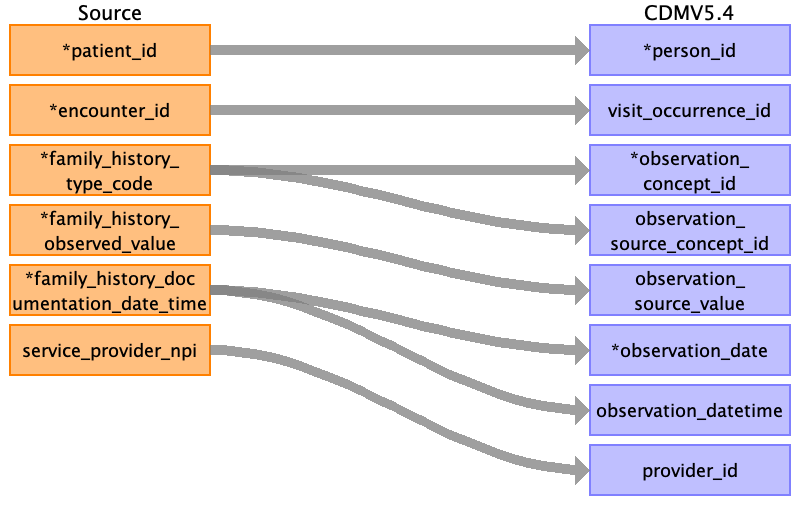
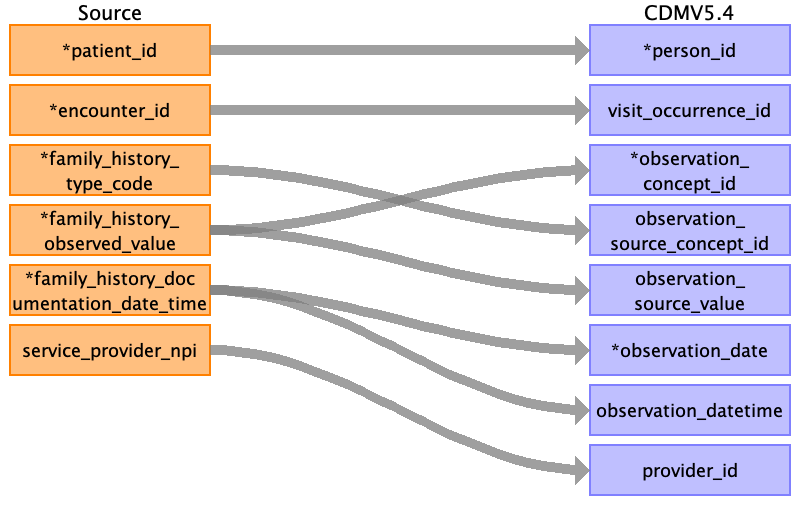
Corrections to mapping for observation_concept_id and added ACEP mappings for Result Observation table

Changed region(s): [[0.3125, 0.3267, 0.7188, 0.4752]]

diff --git a/mappings/ACEP_mappings/measurement.md b/mappings/ACEP_mappings/measurement.md
@@ -1,0 +1,32 @@
+## Table name: measurement
+
+### Reading from result_observation.csv
+
+![](md_files/image7.png)
+
+| Destination Field | Source field | Logic | Comment field |
+| --- | --- | --- | --- |
+| measurement_id |  |  | This will be generated for each unique result of observatio/measurement if not given in the source table. |
+| person_id | patient_id |  | The patient_id is the primary key linking all tables. This can be mapped back to the the person_source_value/person_id of the person table depending on the logic used<br> |
+| measurement_concept_id | observation_description |  | The observation_description is the text description for Observation Code. This can used to derive the measurement_concept_id. Alternatively, if measurement_source_concept_id is a part of the OMOP vocabulary that can be used for mapping.<br> |
+| measurement_date | result_date_time |  | result_date_time is the date and time of the result/observation. The ETL convention specifies "If there are multiple dates in the source data associated with a record such as order_date, draw_date, and result_date, choose the one that is closest to the date the sample was drawn from the patient." Hence even though the date represents the result date it is the closest match for the measurement_date field. Date can be extracted from date time value. The standard format is not specified in the dictionary this has to be checked when we get the data.<br> |
+| measurement_datetime | result_date_time |  | result_date_time can be stored directly in measurement_datetime. The standard format is not specified in the dictionary this has to be checked when we get the data.<br> |
+| measurement_time | result_date_time |  | measurement_time can be extracted from result_date_time. The standard format is not specified in the dictionary this has to be checked when we get the data<br> |
+| measurement_type_concept_id |  |  | This has to be mapped to the respective Type Concept. Needs more investigation. |
+| operator_concept_id |  |  |  |
+| value_as_number | result_value |  | result_value is the documented value/result. It can be stored in value_as_number as the data type here seems to be float/integer. In case not a numeric value, this might need investigation.<br> |
+| value_as_concept_id | result_flag_description |  | result_flag_description is the text description of the Result Flag. As it is a description field it can be used to derive the value_as_concept_id.<br> |
+| unit_concept_id | result_unit |  | The result unit can be used to map the unit_concept_id.<br> |
+| range_low | normal_range_low |  | Lower limit of normal result range, can be directly stored as range_low. It should have same unit as value_as_number.<br> |
+| range_high | normal_range_high |  | Upper limit of normal result range, can be directly stored as range_high. It should have same unit as value_as_number.<br> |
+| provider_id | service_provider_npi |  | The service_provider_npi is the unique NPI for the clinician providing the encounter services. This will map to npi in provider table, the provider_id is the primary key for it which can be added to the measurement table.<br> |
+| visit_occurrence_id | encounter_id |  | encounter_id is an identifier unique to the encounter. It is the primary key for the visit occurrence table. This can be mapped back to the the visit_source_value/visit_occurrence_id of the person table depending on the logic used.<br> |
+| visit_detail_id |  |  |  |
+| measurement_source_value | observation_description |  | It is the text description for the observation Code. This can be stored directly as measurement_source_value.<br> |
+| measurement_source_concept_id | observation_code |  | It is the standard code that describe the observations of the results of laboratory orders, imaging procedures, and other studies. This can be directly mapped to measurement_source_concept_id.<br> |
+| unit_source_value | result_unit |  | The result unit can be directly stored as the unit_source_value.<br> |
+| unit_source_concept_id |  |  |  |
+| value_source_value | result_flag_description |  | result_flag_description is the text description of the Result Flag. As per ETL specification the field being used to generate the value_as_concept_id should be stored in the value_source_value.<br>value_source_value will always contain the field that is being used to generate the value_as_concept_id |
+| measurement_event_id | order_id |  | At source this order_id along with patient_id and encounter_id will be the keys for the Orders table, and hence a relationship is established. As per the OMOP guide "If the Measurement record is related to another record in the database, this field is the primary key of the linked record". Hence as there is no other field, this can be used to directly map to the target table for the "Orders" table from ACEP. (most likely the procedure_occurrence table on OMOP, hence this should contain corresponding procedure_id)<br> |
+| meas_event_field_concept_id |  |  | It should record the concept_id for the table whose primary_key is being added to measurement_event_id (most likely procedure_occurrence table in this case) |
+

diff --git a/mappings/ACEP_mappings/observation.md b/mappings/ACEP_mappings/observation.md
@@ -10,7 +10,7 @@
 | person_id | patient_id |  | The patient_id is the primary key linking all tables. This can be mapped back to the the person_source_value/person_id of the person table depending on the logic used<br> |
 | visit_occurrence_id | encounter_id |  | encounter_id is an identifier unique to the encounter. It is the primary key for the visit occurence table. This can be mapped back to the the visit_source_value/visit_occurrence_id of the person table depending on the logic used.<br> |
 | observation_type_concept_id |  |  | This has to be mapped to the respective Type Concept. Needs more investigation. |
-| observation_concept_id | family_history_type_code |  | family_history_type_code has SNOMED CT code representing family medical history hierarchy. This can be directly mapped to observation_source_concept_id. The observation_source_concept_id is used to map to the standard observation_concept_id<br> |
+| observation_concept_id | family_history_observed_value |  | family_history_observed_value is the unstructured/non-standard family history documentation. This can used to derive the observation_concept_id. Alternatively, if the observation_source_concept_id is a part of the OMOP vocabulary that can be used for mapping.<br> |
 | observation_source_concept_id | family_history_type_code |  | family_history_type_code has SNOMED CT code representing family medical history hierarchy. This can be directly mapped to observation_source_concept_id.<br> |
 | observation_source_value | family_history_observed_value |  | family_history_observed_value is the unstructured/non-standard family history documentation. This can be stored directly as observation_source_value.<br> |
 | observation_date | family_history_documentation_date_time |  | family_history_documentation_date_time is the date and time when the family history is recorded. The date element can be extracted and stored in observation_date. The standard format is not specified in the dictionary this has to be checked when we get the data.<br> |
@@ -38,7 +38,7 @@
 | person_id | patient_id |  | The patient_id is the primary key linking all tables. This can be mapped back to the the person_source_value/person_id of the person table depending on the logic used<br> |
 | visit_occurrence_id | encounter_id |  | encounter_id is an identifier unique to the encounter. It is the primary key for the visit occurence table. This can be mapped back to the the visit_source_value/visit_occurrence_id of the person table depending on the logic used.<br> |
 | observation_type_concept_id |  |  | This has to be mapped to the respective Type Concept. Needs more investigation. |
-| observation_concept_id | social_history_type_code |  | social_history_type_code has standard code representing social history. This can be directly mapped to observation_source_concept_id. The observation_source_concept_id is used to map to the standard observation_concept_id.<br> |
+| observation_concept_id | social_history_observed_value |  | social_history_observed_value is the unstructured/non-standard social history documentation. This can used to derive the observation_concept_id. Alternatively, if the observation_source_concept_id is a part of the OMOP vocabulary that can be used for mapping.<br> |
 | observation_source_concept_id | social_history_type_code |  | social_history_type_code has standard code representing social history. This can be directly mapped to observation_source_concept_id.<br> |
 | observation_source_value | social_history_observed_value |  | social_history_observed_value is the unstructured/non-standard social history documentation. This can be stored directly as observation_source_value.<br> |
 | observation_date | social_history_documentation_date_time |  | social_history_documentation_date_time is the date and time when the social history is recorded. The date element can be extracted and stored in observation_date. The standard format is not specified in the dictionary this has to be checked when we get the data.<br> |

diff --git a/mappings/ACEP_mappings/source_appendix.md b/mappings/ACEP_mappings/source_appendix.md
@@ -65,3 +65,27 @@
 | service_location_id | INT | 848383005 | This will be the care_site_source_value/care_site_id (based on logic) linked to the visit occurence table or the person table through the primary keys of visit_occurence_id and person_id respectively. |
 | service_location_name | VARCHAR | Smile Hospital | This will be care_site_name mapping to the care_site_id linked to the visit occurence table or the person table through the primary keys of visit_occurence_id and person_id respectively. |
 
+### Table: result_observation.csv
+
+| Field | Type | Most freq. value | Comment |
+| --- | --- | --- | --- |
+| patient_id | VARCHAR | SMH3467 |  |
+| encounter_id | INT | 105 |  |
+| observation_code | VARCHAR | 10466-1 |  |
+| observation_description | VARCHAR | Anion gap 3 in Serum or Plasma |  |
+| result_code_set | VARCHAR | LOINC | This is the code set which is used in column Observation Code. It can be used to map the measurement_source_concept_id to the measurement_concept_id if part of OMOP vocabulary. |
+| result_date_time | VARCHAR | 2020-04-12 | 	 |
+| result_value | INT | 4 |  |
+| result_flag | VARCHAR | N | result_flag is the standard observation interpretation code of the result field. It is not providing intutive conversion to a concept, the result_flag_description is a more suitable field for the same. |
+| result_flag_description | VARCHAR | Normal |  |
+| normal_range_low | INT | 3 |  |
+| normal_range_high | INT | 10 |  |
+| result_unit | VARCHAR | mEq/L |  |
+| order_id | INT | 2576 |  |
+| result_order_description | VARCHAR | Basic metabolic panel | Text description of the result order will be present in the target for the orders table. |
+| service_provider_npi | INT | 5555555555 |  |
+| service_provider_first_name | VARCHAR | James | This has to be deidentified. Pass as NULL. |
+| service_provider_last_name | VARCHAR | Smith | This has to be deidentified. Pass as NULL. |
+| service_location_id | INT | 848383005 | This will be the care_site_source_value/care_site_id (based on logic) linked to the visit occurence table or the person table through the primary keys of visit_occurence_id and person_id respectively. |
+| service_location_name | VARCHAR | Smile Hospital | This will be care_site_name mapping to the care_site_id linked to the visit occurence table or the person table through the primary keys of visit_occurence_id and person_id respectively. |
+

diff --git a/mappings/ACEP_mappings/index.md b/mappings/ACEP_mappings/index.md
@@ -1,6 +1,6 @@
 # Source Data Mapping Approach to CDMV5.4
 
-![](md_files/image7.png)
+![](md_files/image8.png)
 
 ## Contents
 
@@ -13,6 +13,8 @@
 [care_site](care_site.md)
 
 [observation](observation.md)
+
+[measurement](measurement.md)
 
 [source_appendix](source_appendix.md)
 
